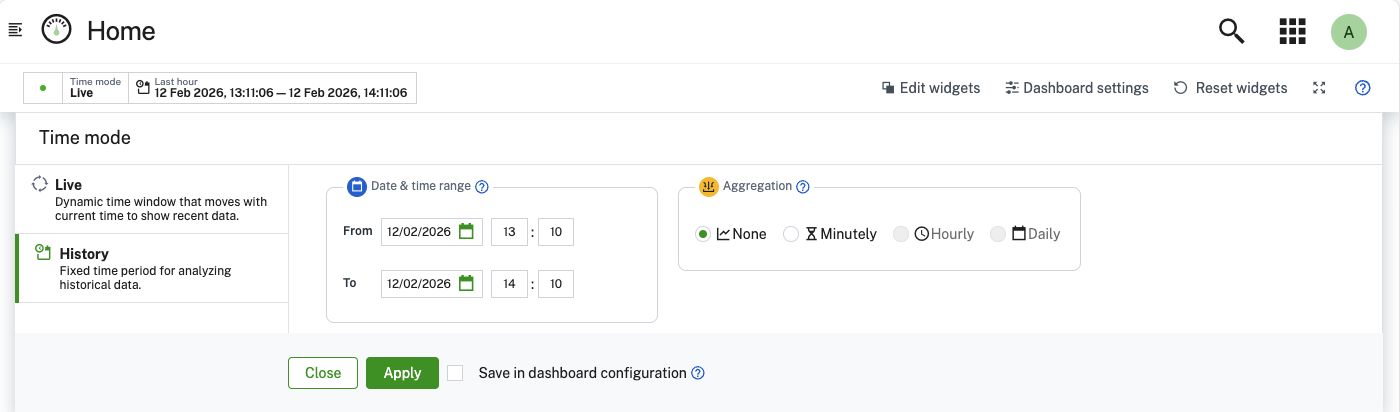
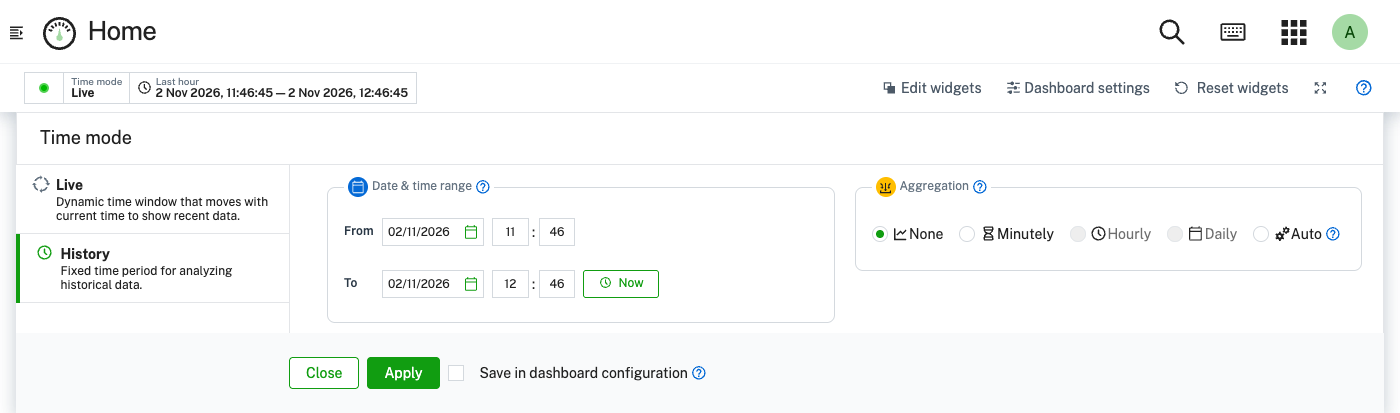
[MTM-66642] Document aggregation in live mode while auto-refresh is off
Live mode can now aggregate while auto-refresh is turned off
(cumulocity-ui PR #11817).

- Global time context: controls table, live mode paragraph, auto-refresh
  and aggregation sections, widget time context and URL persistence
  describe the new behavior.
- Auto options use the current UI labels "Points per chart" and
  "Keep point count on zoom".
- New screenshots of paused live mode in the dashboard and in the widget
  configuration; the history mode screenshot now shows "Auto".
- Draft release note; version and dates are placeholders until the
  release is known.

diff --git a/content/cockpit/global-time-context.md b/content/cockpit/global-time-context.md
@@ -35,8 +35,8 @@ The toolbar contains the following controls:
 | :----------- | :----------------------------------- |
 | Mode toggle  | Switch between live and history mode |
 | Time range   | Select the time period to display    |
-| Auto-refresh | Toggle automatic data refresh        |
-| Aggregation  | Choose how data points are grouped   |
+| Auto-refresh | Turn automatic data refresh on or off (live mode only) |
+| Aggregation  | Choose how data points are grouped. Available in history mode, and in live mode while auto-refresh is off |
 
 The toolbar only appears if at least one widget on the dashboard is connected to the global time context. If all widgets are unlinked, a red icon appears in the toolbar indicating that no widgets are synchronized.
 
@@ -57,6 +57,10 @@ The global time context operates in two modes:
 **Live mode** shows a rolling time window that moves forward automatically. For example, "Last hour" at 3:00 PM shows 2:00 PM - 3:00 PM. At 3:05 PM, it automatically shows 2:05 PM - 3:05 PM. This mode is suitable for monitoring current status.
 
 ![Live mode indicator](/images/users-guide/cockpit/cockpit-global-time-context-live-mode.png)
+
+While auto-refresh is on, live mode always shows raw data. When you turn auto-refresh off, the **Live** tab offers the same aggregation options as history mode. When you turn auto-refresh on again, the aggregation is removed.
+
+![Live mode with auto-refresh off and aggregation](/images/users-guide/cockpit/cockpit-global-time-context-live-mode-paused.png)
 
 **History mode** shows a fixed time period. When you select specific dates, the widgets always show that exact period regardless of when you view them. This mode is suitable for analyzing past events.
 
@@ -85,6 +89,8 @@ Auto-refresh periodically reloads data in all widgets. When enabled, most widget
 
 Click the **Auto-refresh** toggle in the toolbar to enable or disable automatic data refresh.
 
+Turning auto-refresh off in live mode also makes the aggregation options available, see [To change data aggregation](#to-change-data-aggregation).
+
 {{< c8y-admon-info >}}
 In some widgets (such as the "Alarm list" widget), scrolling down unlinks the widget from the global time context. To relink it, scroll back up or click the link button in the widget header.
 {{< /c8y-admon-info >}}
@@ -93,7 +99,7 @@ In some widgets (such as the "Alarm list" widget), scrolling down unlinks the wi
 
 Aggregation groups multiple data points into summarized values. This improves performance and readability for large time ranges.
 
-In the **Aggregation** section of the toolbar, select one of the available options:
+Click the toolbar to open the time settings. The **Aggregation** section is on the **History** tab, and on the **Live** tab while auto-refresh is turned off. Select one of the available options:
 
 | Type     | Description                                                              |
 | :------- | :----------------------------------------------------------------------- |
@@ -107,14 +113,18 @@ In the **Aggregation** section of the toolbar, select one of the available optio
 Some aggregation options may be disabled if they don't apply to your selected time range. For example, **Daily** aggregation is disabled for ranges less than 1 day.
 {{< /c8y-admon-info >}}
 
+{{< c8y-admon-info >}}
+In live mode, aggregation is available only while auto-refresh is off. While an aggregation is active, the collapsed toolbar shows **Aggregation** and the selected value.
+{{< /c8y-admon-info >}}
+
 #### Automatic aggregation {#automatic-aggregation}
 
 With **Auto**, the aggregation interval is calculated automatically from the selected time range and the number of aggregated values you want to see per chart. This keeps charts readable and fast for any time range, without selecting an interval manually.
 
 When **Auto** is selected, the following options appear:
 
-- **Data points per chart** - The number of aggregated values to display per chart (2 - 2000, default 300). The aggregation interval is derived from this value: the larger the time range, the coarser the interval.
-- **Keep loading data when zooming in** - When enabled (default), zooming into the chart loads data at a finer interval to keep the set number of data points. When disabled, zooming in reuses the already loaded data without further requests. Zooming out always loads new data.
+- **Points per chart** - The number of aggregated values to display per chart (2 - 2000, default 300). The aggregation interval is derived from this value: the larger the time range, the coarser the interval.
+- **Keep point count on zoom** - When enabled (default), zooming into the chart loads data at a finer interval to keep the set number of data points. When disabled, zooming in reuses the already loaded data without further requests. Zooming out always loads new data.
 
 {{< c8y-admon-info >}}
 **Auto** is currently supported by the "Data graph" widget only and appears disabled for other widgets. It requires the tenant to use [Enhanced time series support](/standard-tenant/enhanced-time-series-support/).
@@ -146,9 +156,13 @@ In the widget configuration, expand the **Time context** section. Select one of 
 **Dashboard** - The widget uses the global time context.
 
 **Widget** - The widget uses its own time settings.
-When **Widget** is selected, additional options appear allowing you to configure the widget's own time range, mode, and auto-refresh settings.
+When **Widget** is selected, additional options appear allowing you to configure the widget's own time range, mode, auto-refresh, and aggregation settings.
 
 ![Time context configuration - Widget](/images/users-guide/cockpit/cockpit-global-time-context-widget-config-widget.png)
+
+On the **Live** tab, turn off **Auto refresh enabled** to show the **Aggregation** section. The **Live** and **History** tabs keep separate aggregation settings.
+
+![Time context configuration - Widget, live mode with auto-refresh off](/images/users-guide/cockpit/cockpit-global-time-context-widget-config-live-paused.png)
 
 {{< c8y-admon-info >}}
 Not all widgets support global time context. Some widgets are configured to operate independently and have their own time picker within the widget. These widgets do not show a link icon.
@@ -156,4 +170,4 @@ Not all widgets support global time context. Some widgets are configured to oper
 
 ### URL persistence {#url-persistence}
 
-Your global time context settings are automatically saved in the URL. This allows you to bookmark dashboards with specific time configurations or share links that preserve your selected time range, mode, and aggregation settings.
+Your global time context settings are automatically saved in the URL. This allows you to bookmark dashboards with specific time configurations or share links that preserve your selected time range, mode, and aggregation settings. This includes the aggregation of a live mode dashboard while auto-refresh is off.

diff --git a/content/change-logs/application-enablement/ui-c8y-VERSION-aggregation-in-live-mode-while-auto-refresh-is-paused.md b/content/change-logs/application-enablement/ui-c8y-VERSION-aggregation-in-live-mode-while-auto-refresh-is-paused.md
@@ -1,0 +1,17 @@
+---
+date: 'YYYY-MM-DD'
+title: Aggregation in live mode while auto-refresh is off
+product_area: Application enablement & solutions
+change_type:
+  - value: change-QHu1GdukP
+    label: Feature
+component:
+  - value: component-YbYJ3gLU_
+    label: Web SDK
+build_artifact:
+  - value: tc-pjJiURv9Y
+    label: ui-c8y
+ticket: MTM-66642
+version: VERSION
+---
+Previously, dashboards and widgets in live mode always showed raw data. Now, when you turn off auto-refresh in live mode, you can select an aggregation (None, Minutely, Hourly, Daily, or Auto), both in the dashboard time context and in the time context of a widget. While an aggregation is active, the collapsed time context toolbar shows it. When you turn auto-refresh on again, the aggregation is removed. For details, see [Global time context](/cockpit/global-time-context/#to-change-data-aggregation).
